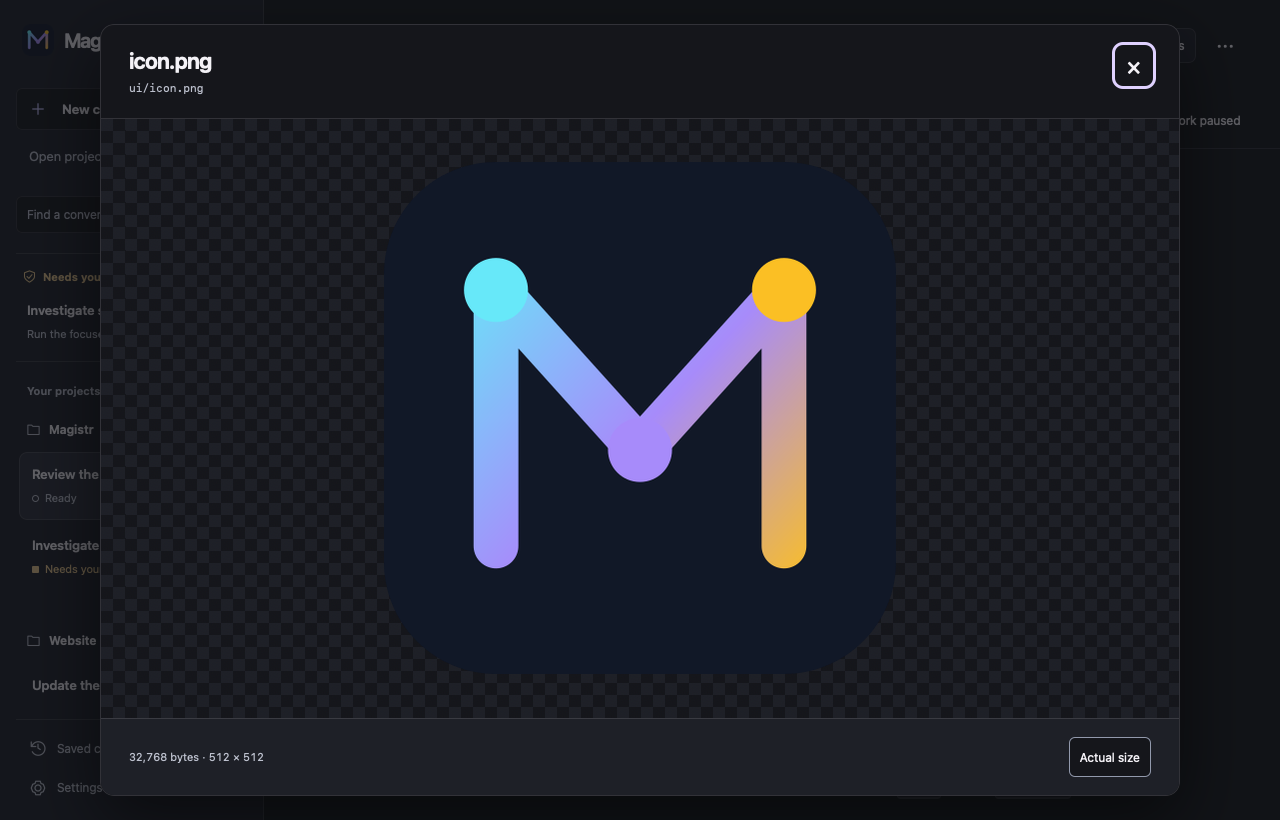
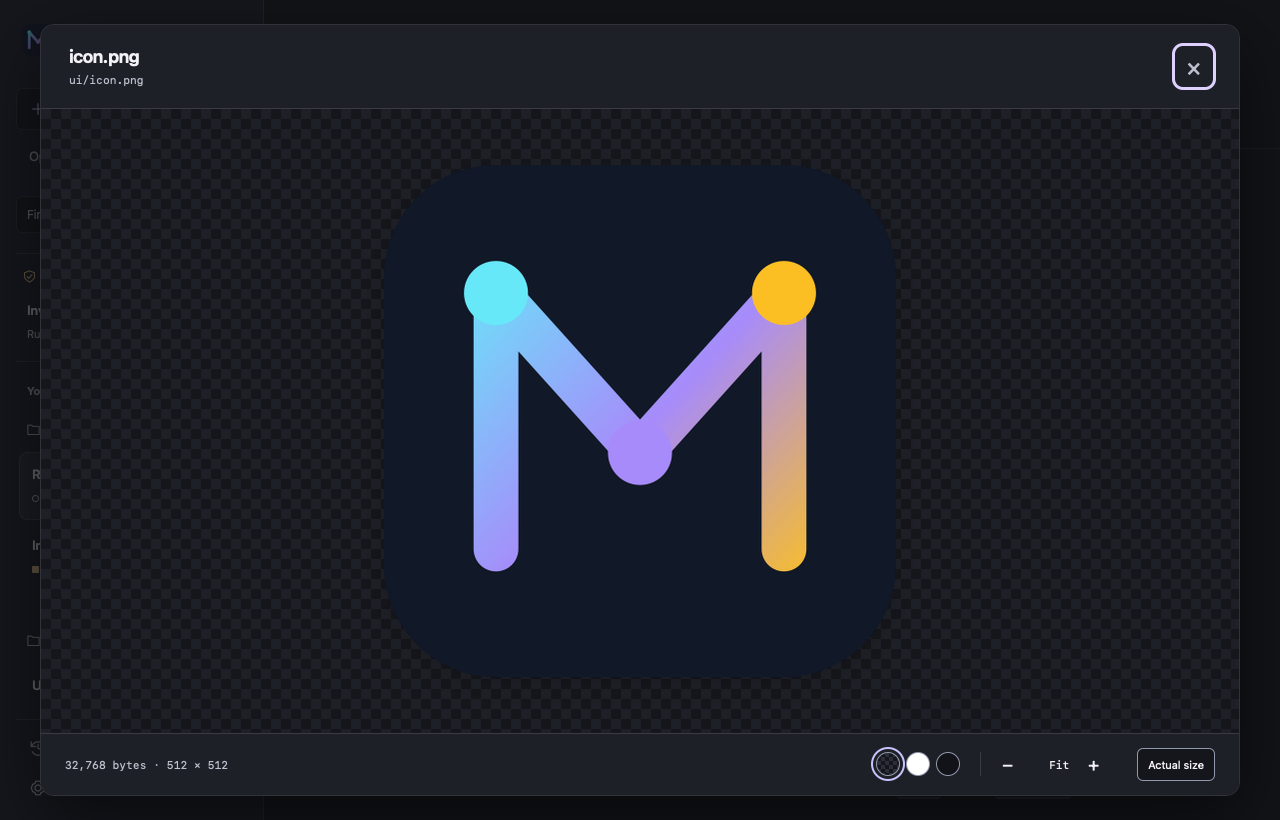
feat(desktop): expand the image inspection stage

diff --git a/crates/magistr-desktop/ui/style.css b/crates/magistr-desktop/ui/style.css
@@ -272,18 +272,7 @@ textarea::placeholder,input::placeholder{color:var(--muted);opacity:1}
 .draft-state,.saved-draft-actions{display:flex;align-items:center;gap:8px}
 .draft-state{min-width:0;flex-wrap:wrap}.draft-state p{font-size:11px;color:var(--muted)}.draft-state button{font-size:11px;padding:2px 5px;min-height:26px}
 #discard-draft{color:var(--muted);border-color:transparent;background:transparent}#discard-draft:disabled{display:none}.draft-state p:empty{display:none}
-.composer-box .attachments{margin:0 12px 10px;max-height:150px}.composer-box #attachment-viewer{width:1080px;height:min(780px,calc(100dvh - 48px));max-width:calc(100vw - 48px)}
-#attachment-viewer[open]{display:flex;flex-direction:column}
-.image-viewer-heading{display:flex;align-items:flex-start;justify-content:space-between;gap:20px;padding:22px 28px;border-bottom:1px solid var(--separator);flex-shrink:0}
-.image-viewer-heading>div{min-width:0}.image-viewer-heading h2{font-size:22px;letter-spacing:-.025em;overflow-wrap:anywhere;margin:0 0 6px}.image-viewer-heading p{font:11px/1.5 var(--font-code);overflow-wrap:anywhere;margin:0}
-#attachment-close{font-size:24px;flex-shrink:0;min-width:34px;min-height:34px;padding:0;text-align:center;border:0;background:transparent}
-.image-viewer-stage{flex:1;min-height:0;overflow:auto;display:grid;place-items:center;padding:28px;background:repeating-conic-gradient(var(--base) 0% 25%,var(--panel) 0% 50%) 0 0/24px 24px}
-#attachment-image{display:block;max-width:100%;max-height:100%;object-fit:contain;min-height:0;min-width:0}
-#attachment-viewer[data-actual=true] .image-viewer-stage{display:block}#attachment-viewer[data-actual=true] img{max-width:none;max-height:none;margin:auto}
-#attachment-image-status{margin:auto;padding:18px;background:var(--base);color:var(--muted);font-size:13px}
-#attachment-metadata{font-size:11px;font-variant-numeric:tabular-nums;margin-right:auto}
-@media(max-width:680px){.image-viewer-heading{padding:18px}.image-viewer-heading h2{font-size:18px}.image-viewer-stage{padding:16px}}
-#attachment-note{padding:0 16px}
+.composer-box .attachments{margin:0 12px 10px;max-height:150px}#attachment-note{padding:0 16px}
 .detail{scroll-padding-block:64px 24px;min-width:0;border-left:1px solid var(--separator);padding:20px;overflow:auto;background:var(--panel);display:flex;flex-direction:column;gap:28px}
 .detail-title{display:flex;align-items:center;justify-content:space-between;position:sticky;top:-20px;z-index:2;background:var(--panel);padding:4px 0 12px}.detail .detail-title h2{font-size:15px;letter-spacing:0;text-transform:none;color:var(--text)}
 #close-details{border:0;background:transparent;font-size:22px;width:32px;height:32px;padding:0;text-align:center;color:var(--muted)}
@@ -547,17 +536,26 @@ dialog h3{margin:20px 0 10px;font-size:17px}.dialog-actions{display:flex;justify
 .transcript .attachment-excerpt{display:-webkit-box;-webkit-line-clamp:4;-webkit-box-orient:vertical;overflow:hidden;font:11px/1.8 var(--font-code);white-space:pre-wrap;color:var(--muted);width:100%;text-align:left;max-height:80px}
 .transcript .attachment:has(details[open]){grid-column:1/-1}.transcript .attachment pre{max-height:260px}
 @media(max-width:800px){.transcript .attachment .attachment-visual{height:120px;min-height:120px}.transcript .attachments{gap:12px}}
-#attachment-viewer{width:1080px;height:min(780px,calc(100dvh - 48px));max-width:calc(100vw - 48px)}
+#attachment-viewer{width:min(1200px,calc(100vw - 48px));height:calc(100dvh - 48px);max-width:calc(100vw - 48px);border-radius:14px}
 #attachment-viewer[open]{display:flex;flex-direction:column}
-.image-viewer-heading{display:flex;align-items:flex-start;justify-content:space-between;gap:20px;padding:22px 28px;border-bottom:1px solid var(--separator);flex-shrink:0}
-.image-viewer-heading>div{min-width:0}.image-viewer-heading h2{font-size:22px;letter-spacing:-.025em;overflow-wrap:anywhere;margin:0 0 6px}.image-viewer-heading p{font:11px/1.5 var(--font-code);overflow-wrap:anywhere;margin:0}
-#attachment-close{font-size:24px;flex-shrink:0;min-width:34px;min-height:34px;padding:0;text-align:center;border:0;background:transparent}
-.image-viewer-stage{flex:1;min-height:0;overflow:auto;display:grid;place-items:center;padding:28px;background:repeating-conic-gradient(var(--base) 0% 25%,var(--panel) 0% 50%) 0 0/24px 24px}
-#attachment-image{display:block;max-width:100%;max-height:100%;object-fit:contain;min-height:0;min-width:0}
+.image-viewer-heading{display:flex;align-items:center;justify-content:space-between;gap:20px;padding:20px 28px;border-bottom:1px solid var(--separator);flex-shrink:0;background:var(--panel)}
+.image-viewer-heading>div{min-width:0}.image-viewer-heading h2{font-size:18px;font-weight:600;letter-spacing:-.02em;overflow-wrap:anywhere;margin:0 0 5px}.image-viewer-heading p{font:11px/1.5 var(--font-code);overflow-wrap:anywhere;margin:0;color:var(--muted)}
+#attachment-close{font-size:24px;flex-shrink:0;min-width:34px;min-height:34px;padding:0;text-align:center;border:0;background:transparent;color:var(--muted)}
+.image-viewer-stage{flex:1;min-height:0;overflow:auto;display:grid;grid-template-rows:minmax(0,1fr);place-items:center;padding:32px;background:repeating-conic-gradient(var(--base) 0% 25%,var(--panel) 0% 50%) 0 0/20px 20px}
+#attachment-viewer[data-background=light] .image-viewer-stage{background:#fff}#attachment-viewer[data-background=dark] .image-viewer-stage{background:#111319}
+#attachment-image{display:block;max-width:100%;max-height:100%;object-fit:contain;min-height:0;min-width:0;filter:drop-shadow(0 8px 18px #0002)}
 #attachment-viewer[data-actual=true] .image-viewer-stage{display:block}#attachment-viewer[data-actual=true] img{max-width:none;max-height:none;margin:auto}
 #attachment-image-status{margin:auto;padding:18px;background:var(--base);color:var(--muted);font-size:13px}
-#attachment-metadata{font-size:11px;font-variant-numeric:tabular-nums;margin-right:auto}
-@media(max-width:680px){.image-viewer-heading{padding:18px}.image-viewer-heading h2{font-size:18px}.image-viewer-stage{padding:16px}}
+#attachment-metadata{font:11px/1.6 var(--font-code);color:var(--muted);margin-right:auto}
+#attachment-viewer .image-viewer-controls{gap:20px;padding:14px 24px;flex-wrap:wrap}
+.image-backgrounds,.image-zoom{display:flex;align-items:center;gap:6px}.image-backgrounds{padding-right:20px;border-right:1px solid var(--separator)}
+#attachment-viewer .image-backgrounds button{min-height:24px;width:24px;padding:0;border:1px solid var(--line);border-radius:50%}
+.image-backgrounds [data-background=light]{background:#fff}.image-backgrounds [data-background=dark]{background:#111319}.image-backgrounds [data-background=checker]{background:repeating-conic-gradient(var(--base) 0% 25%,var(--raised) 0% 50%) 0 0/8px 8px}
+.image-backgrounds button[aria-pressed=true]{outline:2px solid var(--accent);outline-offset:3px}
+#attachment-viewer .image-zoom button{font-size:18px;min-height:30px;min-width:30px;padding:0;background:transparent;border-color:transparent}
+#attachment-scale{min-width:44px;text-align:center;font:11px var(--font-code);font-variant-numeric:tabular-nums}
+#attachment-viewer #attachment-size{min-height:32px;font-size:11px}
+@media(max-width:800px){.image-viewer-heading{padding:16px 20px}.image-viewer-stage{padding:20px}#attachment-viewer .image-viewer-controls{gap:14px;padding:12px 18px}#attachment-metadata{flex:1 1 100%;font-size:10px}.image-backgrounds{margin-right:auto}}
 #attachment-note{font-size:12px;line-height:1.5;color:var(--muted);margin:7px 0 0}#attachment-note:empty{display:none}
 @media(max-width:1100px){.work-heading h1{font-size:21px}.shell{grid-template-columns:208px minmax(0,1fr)}.workspace[data-details=true]{grid-template-columns:minmax(0,1fr)}.detail{border-left:0;padding:22px max(24px,calc((100% - 560px)/2))}.work-header{padding-inline:20px}.conversation-toolbar{padding-inline:0}.context-actions{gap:4px}.header-actions{gap:10px}#status{max-width:125px}}
 @media(max-width:680px){.transcript article.agent{padding:0}article.you{margin-left:12px!important;padding:12px 14px}.work-header{padding:12px 16px;align-items:flex-start;flex-wrap:wrap;gap:8px}.header-actions{width:100%;justify-content:space-between}.conversation-toolbar{flex-wrap:wrap}.work-header{grid-template-columns:minmax(0,1fr)}.context-actions{flex-wrap:wrap}h1{font-size:18px}.transcript{padding:20px 16px;font-size:14px}#composer{padding:10px 16px 14px}.compose-hint{display:none}#agent-quick-settings{max-width:125px}.welcome{padding:24px}.history-layout{grid-template-columns:1fr}}

diff --git a/crates/magistr-desktop/ui/index.html b/crates/magistr-desktop/ui/index.html
@@ -173,7 +173,18 @@
 <dialog id="attachment-viewer" aria-labelledby="attachment-title">
   <header class="image-viewer-heading"><div><h2 id="attachment-title"></h2><p id="attachment-location"></p></div><button id="attachment-close" aria-label="Close image">×</button></header>
   <div class="image-viewer-stage"><img id="attachment-image" alt=""><p id="attachment-image-status" role="status"></p></div>
-  <footer class="dialog-footer"><p id="attachment-metadata"></p><button id="attachment-size">Actual size</button></footer>
+  <footer class="dialog-footer image-viewer-controls">
+    <p id="attachment-metadata"></p>
+    <div class="image-backgrounds" role="group" aria-label="Image background">
+      <button type="button" data-background="checker" aria-label="Checkered background" aria-pressed="true"></button>
+      <button type="button" data-background="light" aria-label="Light background" aria-pressed="false"></button>
+      <button type="button" data-background="dark" aria-label="Dark background" aria-pressed="false"></button>
+    </div>
+    <div class="image-zoom" role="group" aria-label="Image zoom">
+      <button type="button" id="attachment-zoom-out" aria-label="Zoom out">−</button><output id="attachment-scale" aria-live="polite">Fit</output><button type="button" id="attachment-zoom-in" aria-label="Zoom in">+</button>
+    </div>
+    <button id="attachment-size">Actual size</button>
+  </footer>
 </dialog>
 <script type="module" src="app.mjs"></script>
 </body></html>
